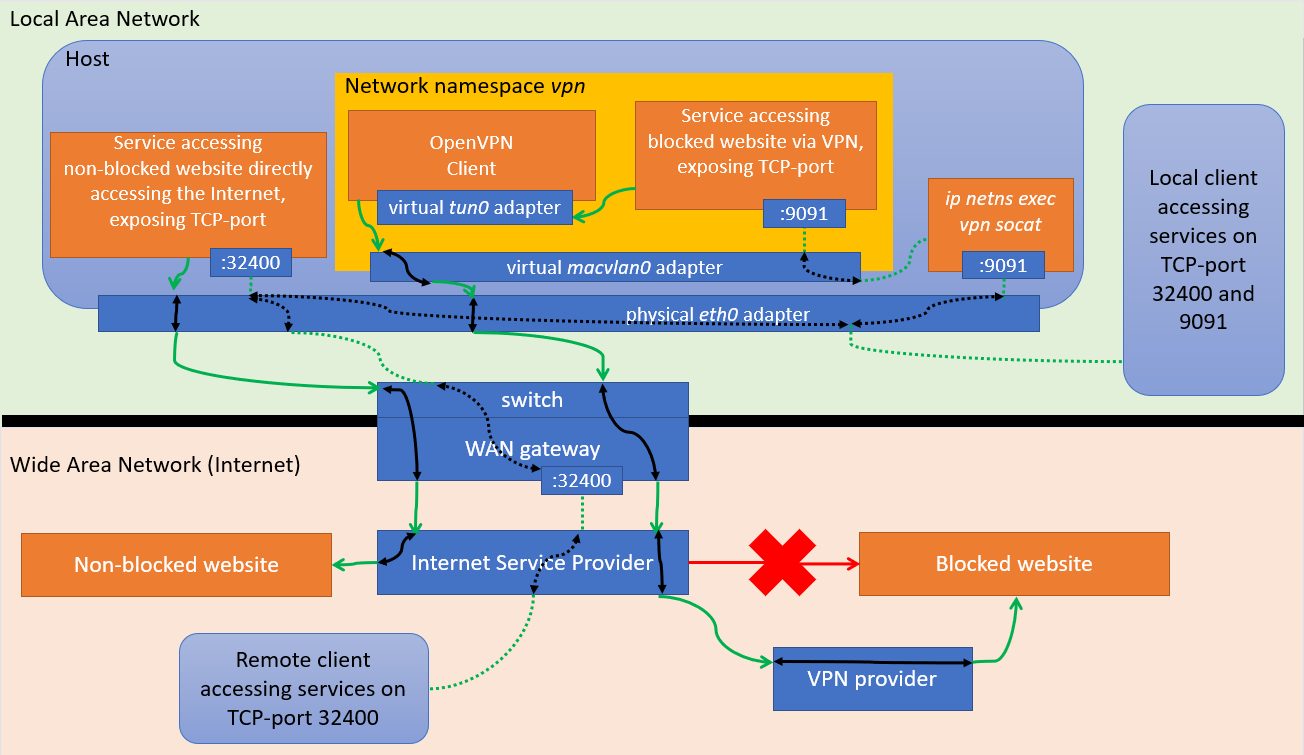
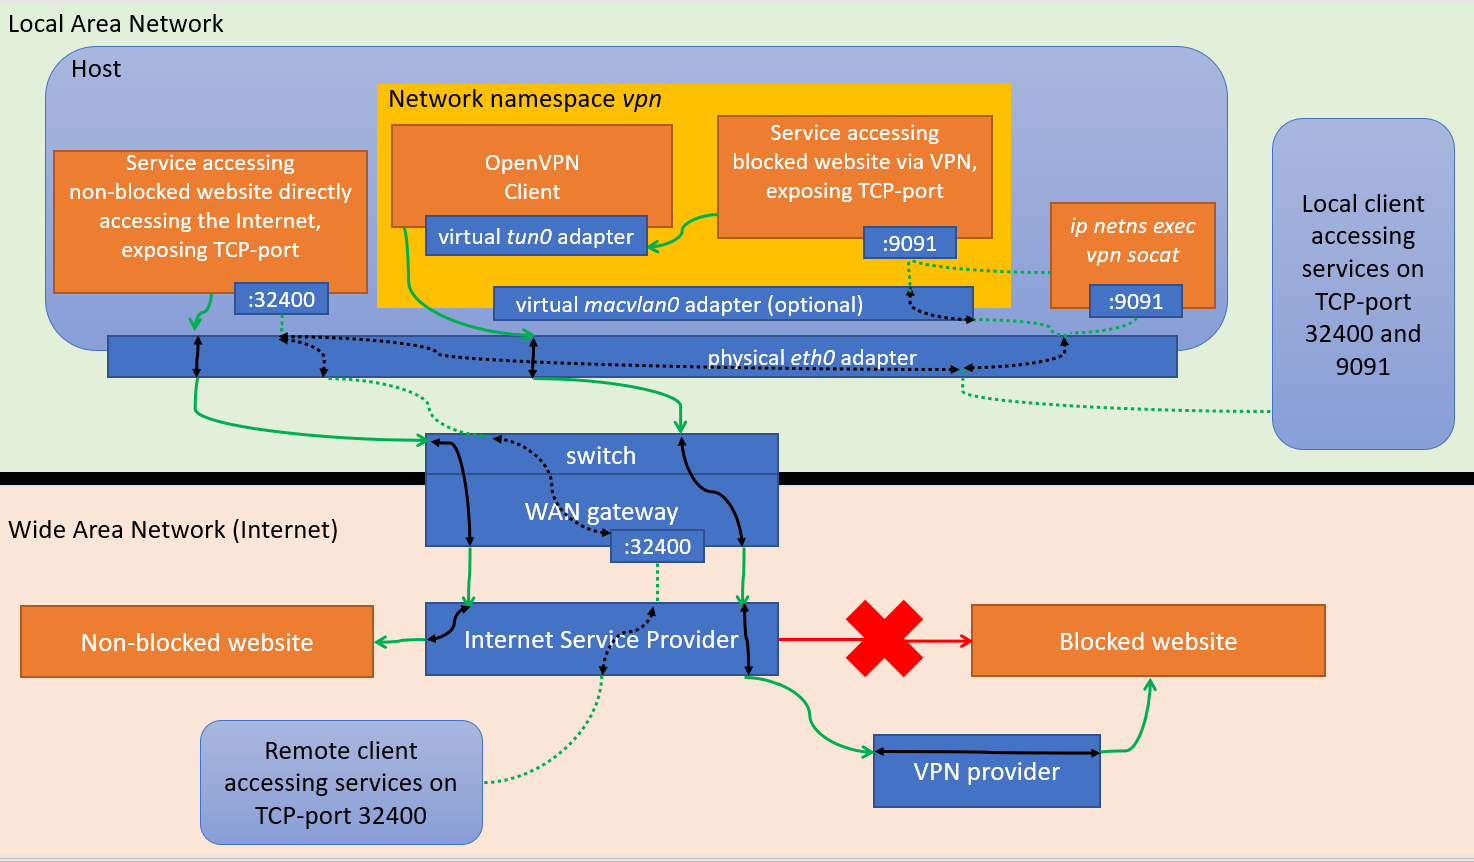
Fixes for macvlan0 creation

diff --git a/README.md b/README.md
@@ -3,11 +3,11 @@
 When your ISP is actively blocking certain websites, one can use a VPN to circumvent the blockage.  With this script, it is still possible to use the local network and a direct internet connection through the ISP, and still use the VPN connection to tunnel to blocked websites.
 
 Once the **openvpn-netns** script is installed, and the OpenVPN service is started, it will:
-1. open a VPN connection tunneled through the virtual _tun0_ network adapter, which  has a local IP-address in a different IP-range as the LAN, where all Internet is routed through now. This is happening in a default installation already.
+1. open a VPN connection tunneled through the virtual _tun0_ network adapter, which  has a local IP-address in a different IP-range as the LAN, where all Internet bound traffic is routed through now. This is happening in a default OpenVPN installation already.
 2. set-up a Linux network namespace called _vpn_
-3. move the _tun0_ network adapter into the _vpn_ namespace
-4. configure DSN servers for the network namespace
-5. create a virtual network adapter _macvlan0_ ([MACVLAN in Bridge mode](https://developers.redhat.com/blog/2018/10/22/introduction-to-linux-interfaces-for-virtual-networking#macvlan)) between the pythical LAN _eth0_ network adapter and the apps and services that need to access the Internet through the VPN tunnel
+3. move the _tun0_ network adapter into the _vpn_ network namespace
+4. configure DSN servers for the _vpn_ network namespace
+5. optionally, create a virtual network adapter _macvlan0_ ([MACVLAN in Bridge mode](https://developers.redhat.com/blog/2018/10/22/introduction-to-linux-interfaces-for-virtual-networking#macvlan)) between the pythical LAN _eth0_ network adapter and the apps and services that need to access the Internet through the VPN tunnel.  It is will have a seperate IP-address which is accessible on the local network (Note: `ping` will not work on this IP-address, it will only have the exposed ports open).
 
 When the OpenVPN service is stopped, the script will:
 1. close the active VPN connection and remove the _tun0_ network adapter
@@ -72,7 +72,34 @@ configuration files that are available from them.  This version of the scripts d
 
 8. Copy the `netns.sh` to `/etc/openvpn/` and run `chmod +x /etc/openvpn/netns.sh` to allow it be executed.
 
-9. Modify the OpenVPN configuration file: the following lines have to be added, before the `<ca>` line or at the very end:
+9. To enable the optional _macvlan0_ network adapter, which allows to access exposed ports on services in the _vpn_ network namespace, though a separate IP-address.  Uncomment the following lines, by removing the first # and space after it:
+
+```sh
+                # echo "add macvlan0 interface and link it to eth0 interface as bridge"
+                # ip link add macvlan0 link eth0 type macvlan mode bridge
+                # echo "put macvlan0 interface into netns vpn"
+                # ip link set macvlan0 netns vpn
+                # echo "enable macvlan0 interface in netns vpn"
+                # ip netns exec vpn ip link set macvlan0 up
+                # echo "configure macvlan0 interface with 192.168.0.50 in netns vpn"
+                # ip netns exec vpn ip addr add 192.168.0.50/24 dev macvlan0
+```
+
+   Change the IP-address on which this new network adapter _macvlan0_ will listen in the last two lines, it must be in the local network's IP-range - e.g. 192.168.1.236:
+
+   This will change into
+```sh
+                echo "add macvlan0 interface and link it to eth0 interface as bridge"
+                ip link add macvlan0 link eth0 type macvlan mode bridge
+                echo "put macvlan0 interface into netns vpn"
+                ip link set macvlan0 netns vpn
+                echo "enable macvlan0 interface in netns vpn"
+                ip netns exec vpn ip link set macvlan0 up
+                echo "configure macvlan0 interface with 192.168.1.236 in netns vpn"
+                ip netns exec vpn ip addr add 192.168.1.236/24 dev macvlan0
+```
+
+10. Modify the OpenVPN configuration file: the following lines have to be added, before the `<ca>` line or at the very end:
 
    ```sh
    script-security 2
@@ -81,10 +108,10 @@ configuration files that are available from them.  This version of the scripts d
    writepid /run/openvpn/openvpn.pid
    route-noexec
    route-nopull
-   route-up /etc/openvpn/scripts/netns.sh
+   route-up /etc/openvpn/netns.sh
    ifconfig-noexec
-   up /etc/openvpn/scripts/netns.sh
-   down /etc/openvpn/scripts/netns.sh
+   up /etc/openvpn/netns.sh
+   down /etc/openvpn/netns.sh
    ```
 
 ## Running an app or service in the network namespace
@@ -116,9 +143,9 @@ ExecStart=/usr/bin/sudo /sbin/ip netns exec vpn /usr/bin/sudo -u $USER /opt/Serv
 
 ## Making an service available on the local network
 
-When an  exposing a TCP-port that is only available within the network namespace, you might want to expose it on the internet.
+When an exposing a TCP-port that is only available within the network namespace, you might want to expose it on the local network.  It is automatically available through the IP-address of the _macvlan0_ adapter when it is used.
 
-The following command will expose a TCP-port 9091:
+Otherwise, the following command will expose a TCP-port 9091 on the IP-address of the `eth0`-network adapter:
 
 ```sh
 sudo socat tcp-listen:9091,fork,reuseaddr exec:'ip netns exec vpn socat STDIO tcp-connect\:127.0.0.1\:9091',nofork &
@@ -137,21 +164,28 @@ sudo socat tcp-listen:9091,fork,reuseaddr exec:'ip netns exec vpn socat STDIO tc
     link/loopback 00:00:00:00:00:00 brd 00:00:00:00:00:00
 9: tun0: <POINTOPOINT,MULTICAST,NOARP,UP,LOWER_UP> mtu 1500 qdisc pfifo_fast state UNKNOWN mode DEFAULT group default qlen 100
     link/none
+32: macvlan0@if2: <BROADCAST,MULTICAST,UP,LOWER_UP> mtu 1500 qdisc noqueue state UP mode DEFAULT group default qlen 1000
+    link/ether da:03:45:4c:4a:ef brd ff:ff:ff:ff:ff:ff link-netnsid 0
 ```
 ## Example output in the OpenVPN service log
 ```
 TUN/TAP device tun0 opened
 TUN/TAP TX queue length set to 100
-/etc/openvpn/scripts/netns.sh tun0 1500 1584 10.8.8.18 255.255.255.0 init
+/etc/openvpn/scripts/netns.sh tun0 1500 1584 10.9.9.218 255.255.255.0 init
 vpn netns script called - up
 Param 1 = tun0
 Param 2 = 1500
 Param 3 = 1584
-Param 4 = 10.8.8.18
+Param 4 = 10.9.9.218
 creating netns vpn
 putting openvpn in netns vpn
 configuring route for openvpn
 configuring netns vpn dsn settings
 enable loopback interface in netns vpn
+add macvlan0 interface and link it to eth0 interface as bridge
+put macvlan0 interface into netns vpn
+enable macvlan0 interface in netns vpn
+ip netns exec vpn ip link set macvlan0 up
+configure macvlan0 interface with 192.168.1.236 in netns vpn
 Initialization Sequence Completed
-`` 
+```
